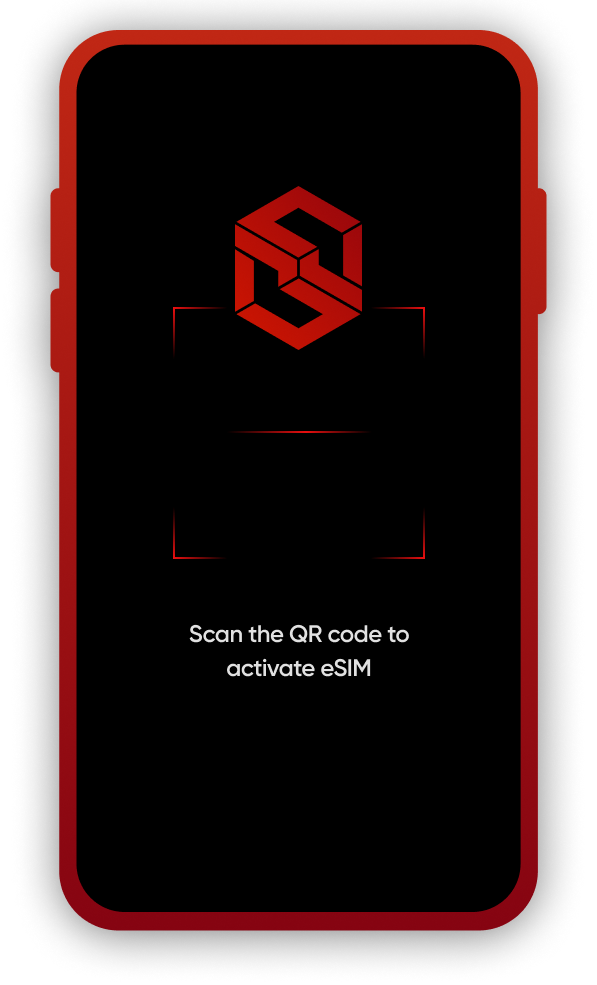
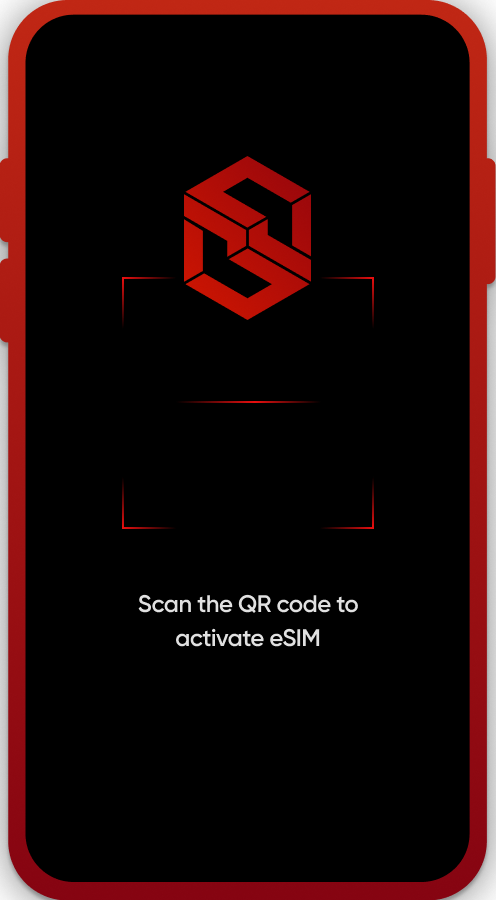
sacping

diff --git a/src/components/OurStandards.jsx b/src/components/OurStandards.jsx
@@ -26,7 +26,7 @@ const OurStandards = () => {
       <section id="hearedListing" className=" bg-black mt_m_1 py-5">
         <Container>
           <p className=" fs_xxl  fw-bold tc_danger">Our standards</p>
-          <h2 className=" fw-bold text-light fs_4xl pb-3 pb-md-5">
+          <h2 className=" fw-bold text-light fs_4xl pb-3 pb-md-2">
             Privacy standards <br /> not seen before in telecom
           </h2>
           <Row className=" align-items-center">
@@ -45,7 +45,7 @@ const OurStandards = () => {
               /> */}
             </Col>
             <Col lg="6" className="">
-              <h2 className=" fs_3xl fw-bold text-light pt-5 ">
+              <h2 className=" fs_3xl fw-bold text-light pt-3 pt-lg-5 ">
                 Get started <br /> with Protecturo
               </h2>
               <p className=" fw_medium tc_info fs_md ">

diff --git a/src/components/HowIt.jsx b/src/components/HowIt.jsx
@@ -9,11 +9,17 @@ import line2 from "../assets/images/svg/Line_2.svg";
 function HowIt() {
   return (
     <>
-      <section className="">
+      <section className=" mt-3 mt-xl-0 py-5">
         <Container>
-          <Row className=" align-items-center">
-            <Col md="5">
-              <img className=" w-100" src={scanner} alt="" />
+          <Row className=" align-items-center justify-content-center justify-content-lg-start">
+            <Col sm="8" md="5">
+              <div className=" text-center">
+                <img
+                  className=" w-100 scanner_img"
+                  src={scanner}
+                  alt="scanner"
+                />
+              </div>
             </Col>
             <Col md="7">
               <p className=" ff_gilroy fw-bold fs_xl tx_neutral tc_danger">

diff --git a/src/style.css b/src/style.css
@@ -104,4 +104,8 @@
   .mobile_img {
     max-width: 280px;
   }
+
+  .scanner_img {
+    max-width: 280px;
+  }
 }
